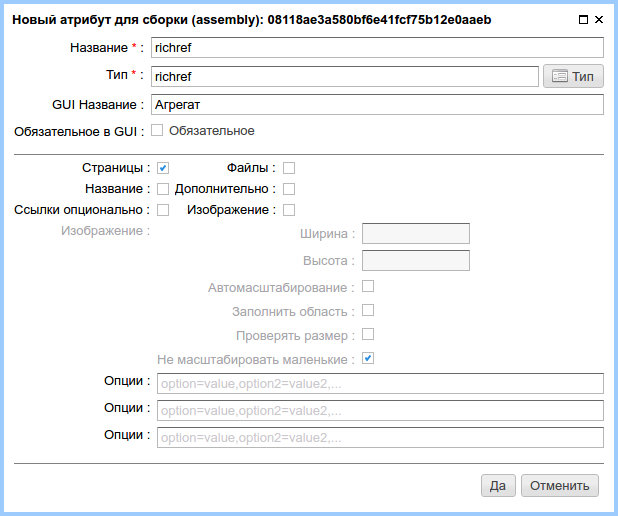
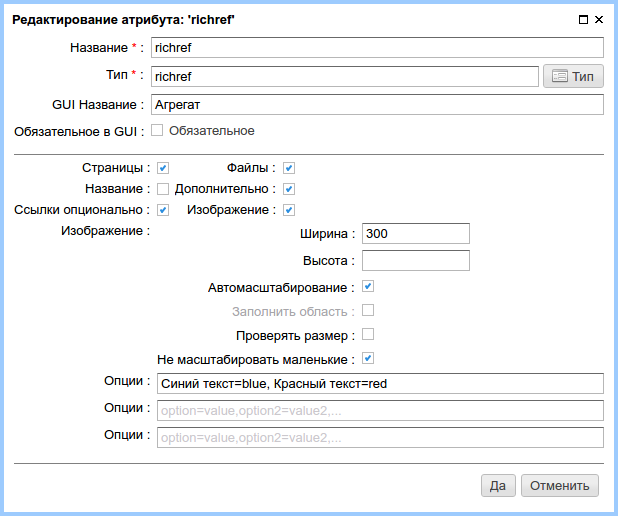
- ru-docs - minors

diff --git a/ncms-docs/ncms-docs-ru/doc/ui/am/richref/richref.rst b/ncms-docs/ncms-docs-ru/doc/ui/am/richref/richref.rst
@@ -3,6 +3,105 @@
 Агрегат (richref)
 =================
 
+С помошью `агрегата` редактор сайта имеет возможность
+вставлять в контекст страниц ссылки вместе с дополнительной
+информацией, сопровождающей ссылку:
+текстом, описанием, изображением, дополнительными стилями.
+
+Опции атрибута
+--------------
+
+.. figure:: img/img1.png
+
+Перечислим основные опции этого атрибута слева направо и сверху вниз.
+
+**Страницы (checkbox)** Позволяет вставлять ссылки как на внутренние nCMS страницы
+так и на внешние веб ресурсы.
+
+**Файлы (checkbox)** Опция предоставляет возможность вставлять ссылки на файлы, хранимые
+в медиарепозитории nCMS.
+
+**Название (checkbox)** Возможность задать дополнительный однострочный
+текст вместе с ссылкой в том случае, если ссылка (вместе с названием) не быда задана.
+
+**Дополнительно (checkbox)** Возможность задать дополнительный многострочный текст вместе с ссылкой.
+
+**Ссылки опционально (checkbox)** Если эта опция включена, ссылка на ресурс будет необязательной.
+
+**Изображение (checkbox)** Возможность использовать изображение. При включении данной опции становятся
+доступны параметры отображения изображения. Опции полностью соответствуют опциям атрибута :ref:`am_image`
+
+**Опции** три множества опций в виде пар: `ключ` => `значение`
+опции задаются в свободной форме, в текстовом поле и в следующем формате::
+
+    ключ=значение[,ключ=значение, ...]
+
+В приведенном примере, заполнено первое множество опций::
+
+    Синий текст=blue, Красный текст=red
+
+Данные этих опции можно использовать при отображении ссылки. При этом `ключ` опции (синий текст, красный текст)
+будет отображаться в GUI редактора страницы, а значение опции (blue, red) будут доступны в httl разметке.
+
+Режим редактирования
+--------------------
+
+.. figure:: img/img2.png
+
+    Агрегат в режиме редактирования страницы.
+
+В режиме редактирования, опции агрегата отображаются в виде выпадающих списков выбора.
+
+Использование в разметке
+------------------------
+
+В контексте httl разметки, значением данного атрибута
+является объект типа `com.softmotions.ncms.mhttl.RichRef`
+в котором содержатся все введенные редактором сайта данные атрибута.
+
+В контексте приведенных данных атрибута отобразим
+этот атрибут как ссылку в виде изображения
+внутри блока который имеет заголовок и описание:
+
+.. code-block:: html
+
+    <html>
+    <body>
+      <h2>Richref demo</h2>
+
+      #set(RichRef rr = asm('richref'))
+      <div>
+        <div>${rr.name}</div>
+        <a href="$!{rr.link}">
+          <img src="$!{rr.image.link}"></img>
+        </a>
+        <div style="color:${rr.style}">
+          ${rr.description}
+        </div>
+      </div>
+    </body>
+    </html>
+
+Что в веб браузере будет отображено как:
+
+.. figure:: img/img3.png
+
+
+
+
+
+
+
+
+
+
+
+
+
+
+
+
+
 
 
 

diff --git a/ncms-docs/ncms-docs-ru/doc/ui/am/select/select.rst b/ncms-docs/ncms-docs-ru/doc/ui/am/select/select.rst
@@ -50,8 +50,8 @@
 Использование в разметке
 ------------------------
 
-В контексте httl разметки, значениеем данного атрибута
-является коллекция элементов типа `com.softmotions.ncms.mhttl.SelectNode`
+В контексте httl разметки, значением данного атрибута
+является коллекция объектов типа `com.softmotions.ncms.mhttl.SelectNode`
 где для каждого элемента определены следующие своства:
 
 * **key** Название элемента (java.lang.String)
